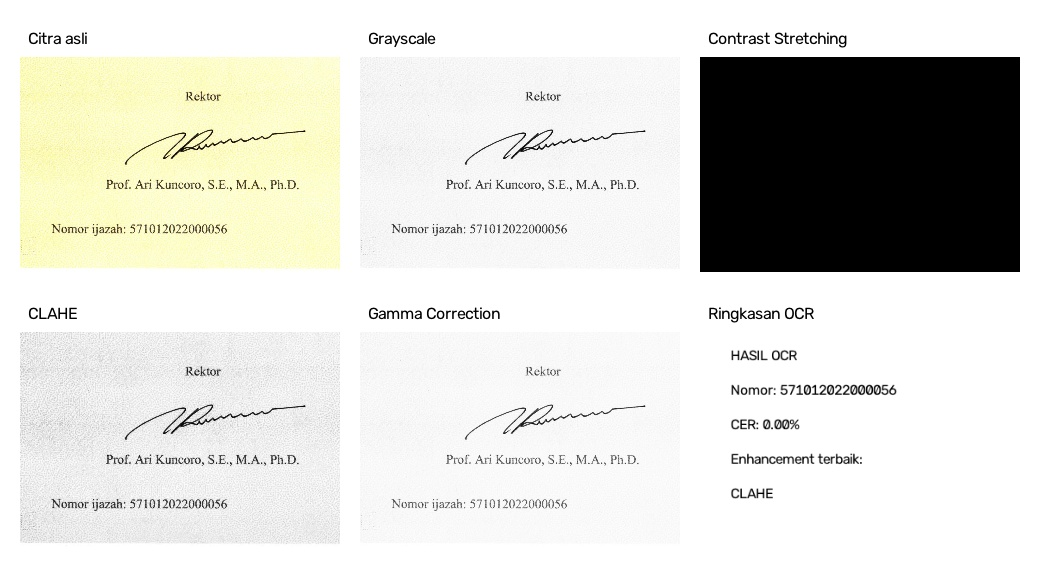
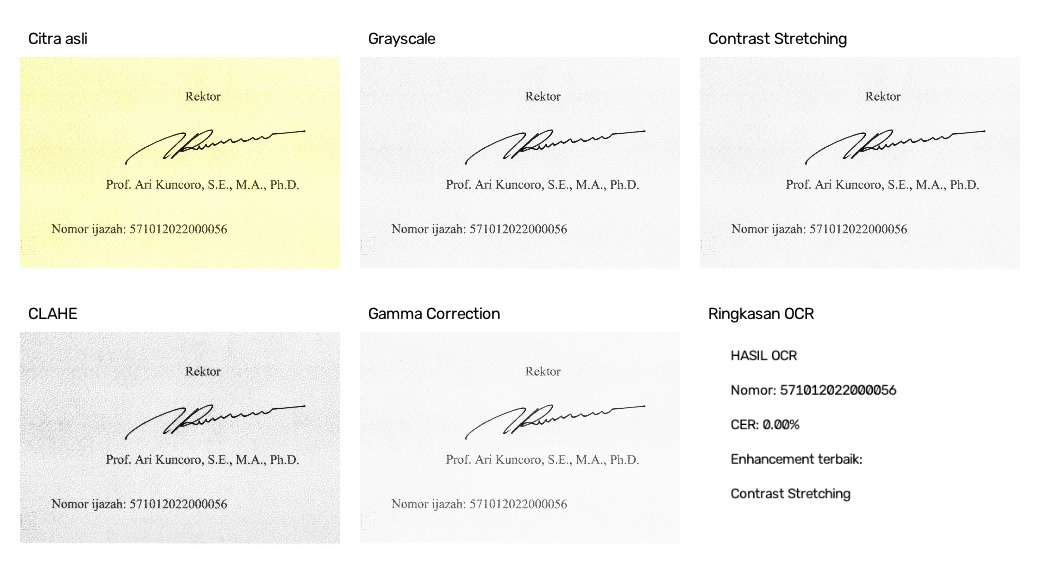
feat: melakukan perubahan

Changed region(s): [[0.6462, 0.0895, 0.9846, 0.4772], [0.7077, 0.8351, 0.8308, 0.8947]]

diff --git a/Program_tugas_7.py b/Program_tugas_7.py
@@ -31,11 +31,17 @@ os.makedirs(SIG_DIR, exist_ok=True)
 # 1. ENHANCEMENT
 
 def contrast_stretch(img):
-    mn, mx = np.min(img), np.max(img)
-    if mx == mn:
-        return img
-    return ((img - mn) * 255 / (mx - mn)).astype(np.uint8)
+    mn = float(np.min(img))
+    mx = float(np.max(img))
 
+    if mx == mn:
+        return img.copy()
+
+    img_float = img.astype(np.float32)
+
+    hasil = (img_float - mn) * 255.0 / (mx - mn)
+
+    return np.clip(hasil, 0, 255).astype(np.uint8)
 
 def clahe(img):
     return cv2.createCLAHE(
@@ -321,7 +327,7 @@ for filename in files:
         hasil_ocr.append((
             nama, nomor, hitung_cer(nomor), enhanced
         ))
-
+    
     terbaik = min(hasil_ocr, key=lambda x: x[2])
 
     (signature, percentage, metode_sig, ocr_visual,
